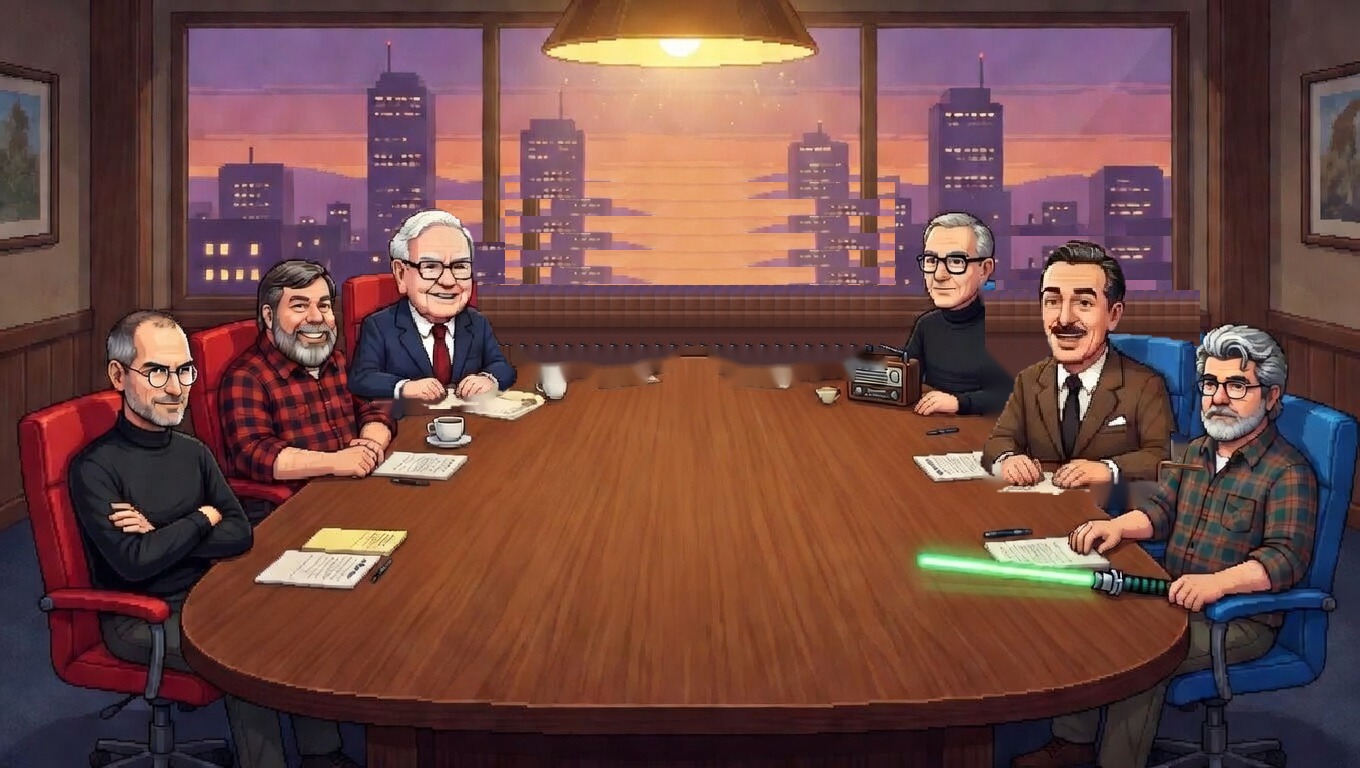
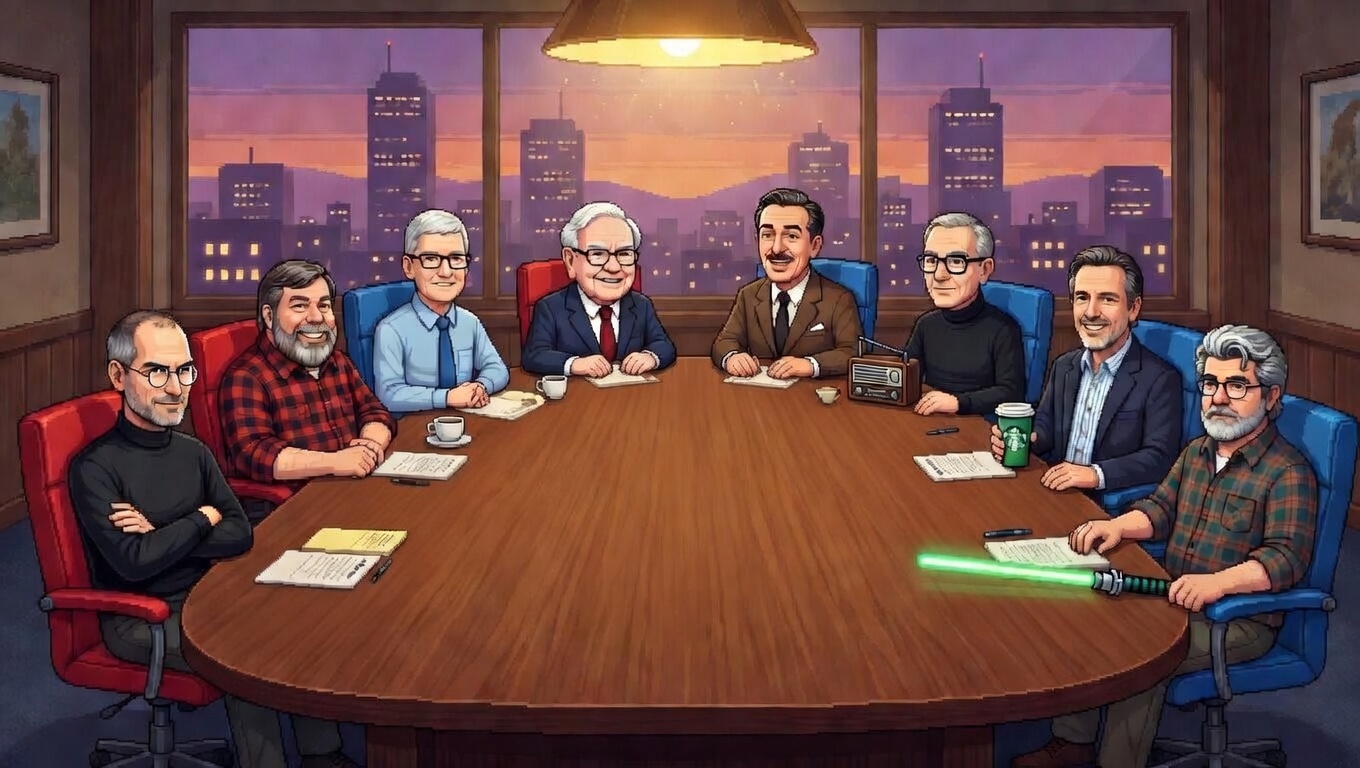
Revert "Merge pull request #292 from csilvasantin/sala-6-leyendas"
This reverts commit 92a349837a8a0c2c2da7ecb3124411809cab0435, reversing
changes made to 76c301cf142f9547d49869e9359cf0bf0e23a85d.

Changed region(s): [[0.2471, 0.2188, 0.6794, 0.5625], [0.7103, 0.2812, 0.8956, 0.6562]]

diff --git a/assets/council-silhouettes.js b/assets/council-silhouettes.js
@@ -1,4 +1,4 @@
 /* Siluetas de los consejeros, trazadas sobre el arte de la sala.
    Coordenadas en píxeles de la escena; el SVG usa el viewBox de la imagen
    y escala con ella en cualquier viewport. Generado con u2netp (rembg). */
-window.COUNCIL_SILHOUETTES = {"leyendas":{"width":1360,"height":768,"paths":{"Steve Jobs":"M167 314 L139 311 L121 319 L112 328 L106 341 L111 389 L32 412 L19 422 L23 488 L43 580 L40 608 L47 613 L48 621 L182 621 L183 607 L197 583 L213 565 L223 561 L223 470 L209 448 L191 432 L187 399 L196 369 L185 334 Z","Steve Wozniak":"M283 260 L270 268 L259 284 L258 335 L254 346 L248 350 L251 358 L256 358 L267 368 L272 386 L268 411 L273 429 L278 435 L288 427 L298 428 L301 423 L287 421 L282 417 L282 411 L317 404 L325 397 L323 384 L330 376 L338 377 L346 398 L345 434 L338 450 L319 450 L313 443 L291 442 L280 449 L273 463 L270 484 L285 486 L286 501 L282 507 L291 514 L298 529 L307 533 L308 540 L324 526 L361 529 L373 524 L373 497 L366 501 L360 499 L350 508 L340 505 L336 498 L317 494 L314 489 L322 482 L363 477 L373 472 L373 391 L363 382 L348 357 L334 347 L337 335 L332 309 L335 283 L327 270 L317 261 Z","Tim Cook":"M438 209 L421 212 L406 228 L401 267 L415 284 L410 300 L374 326 L374 475 L418 484 L431 479 L448 479 L467 459 L455 451 L457 446 L471 439 L464 430 L464 419 L448 415 L446 407 L479 408 L487 404 L490 394 L503 388 L509 379 L506 366 L477 317 L453 302 L471 284 L469 240 L461 221 Z","Warren Buffett":"M445 208 L411 212 L388 242 L389 267 L399 297 L361 318 L354 351 L348 358 L348 394 L362 403 L362 415 L377 430 L382 431 L392 425 L398 408 L404 404 L417 406 L430 414 L500 407 L500 399 L516 385 L515 365 L500 342 L489 316 L468 302 L478 264 L477 239 L459 217 Z","Walt Disney":"M1059 241 L1041 254 L1034 272 L1038 318 L1049 350 L1014 372 L999 413 L981 436 L978 461 L994 492 L1073 500 L1106 488 L1119 493 L1112 504 L1133 541 L1132 560 L1122 567 L1115 582 L1084 591 L1068 610 L1070 626 L1051 643 L1175 643 L1175 404 L1154 368 L1116 352 L1107 335 L1118 326 L1124 307 L1125 278 L1120 263 L1097 244 Z","Dieter Rams":"M942 211 L923 232 L923 251 L916 258 L935 306 L916 321 L903 349 L906 363 L909 359 L918 359 L922 366 L922 381 L930 389 L912 406 L912 411 L939 419 L939 426 L925 434 L937 439 L944 451 L939 455 L912 458 L934 481 L1012 477 L1018 490 L1013 506 L1019 506 L1019 321 L983 298 L981 288 L994 270 L994 241 L989 229 L964 211 Z","Howard Schultz":"M1107 245 L1078 251 L1069 266 L1068 289 L1073 323 L1083 344 L1054 361 L1036 410 L1030 438 L1039 461 L1033 466 L1020 467 L1020 537 L1155 537 L1155 353 L1142 345 L1133 333 L1142 302 L1140 270 L1131 256 Z","George Lucas":"M1214 328 L1196 349 L1196 382 L1205 432 L1189 442 L1156 486 L1156 563 L1171 578 L1168 601 L1185 621 L1181 637 L1185 652 L1181 659 L1187 659 L1187 653 L1193 647 L1199 653 L1198 659 L1224 659 L1224 636 L1227 622 L1233 616 L1232 599 L1258 594 L1264 598 L1263 609 L1244 616 L1275 626 L1282 622 L1284 614 L1297 612 L1300 622 L1298 647 L1304 659 L1325 659 L1328 614 L1336 607 L1332 594 L1320 588 L1306 588 L1301 584 L1313 549 L1316 478 L1310 463 L1279 433 L1275 424 L1283 409 L1284 355 L1268 334 L1256 328 L1230 324 Z"}},"coetaneos":{"width":1280,"height":720,"paths":{"Elon Musk":"M190 321 L164 321 L158 327 L139 333 L119 357 L124 380 L120 398 L127 414 L136 421 L137 439 L134 443 L95 462 L72 466 L69 471 L61 473 L56 469 L55 459 L47 470 L40 469 L38 447 L32 436 L48 584 L40 601 L50 612 L51 638 L58 660 L248 660 L248 511 L235 510 L218 465 L195 449 L207 426 L214 354 L205 333 Z","Jensen Huang":"M340 317 L314 315 L296 325 L289 337 L288 354 L283 364 L293 383 L288 399 L261 414 L249 426 L251 525 L264 522 L273 505 L295 496 L300 498 L303 506 L317 507 L319 516 L327 517 L335 512 L336 499 L354 487 L356 455 L349 425 L359 421 L351 399 L359 387 L364 356 L359 351 L355 331 Z","Gwynne Shotwell":"M453 284 L441 284 L421 293 L412 306 L408 328 L403 332 L404 447 L426 447 L440 453 L459 446 L451 440 L461 431 L464 414 L457 374 L483 363 L477 351 L488 332 L477 300 L465 288 Z","Ruth Porat":"M579 275 L566 275 L551 282 L542 292 L536 316 L531 320 L540 332 L548 331 L557 341 L555 348 L544 346 L541 355 L531 361 L531 482 L557 479 L557 449 L566 446 L630 447 L627 421 L599 420 L585 407 L594 387 L604 380 L603 328 L609 317 L599 288 Z","John Lasseter":"M747 279 L728 288 L718 314 L725 345 L739 367 L751 374 L754 366 L766 356 L783 327 L781 298 L777 291 L765 281 Z","Jony Ive":"M863 303 L851 314 L848 325 L848 363 L853 380 L835 398 L826 389 L817 390 L807 384 L800 387 L800 394 L807 397 L808 412 L825 410 L834 425 L834 432 L828 438 L851 460 L883 465 L884 480 L874 487 L875 493 L883 493 L892 485 L918 485 L925 481 L933 484 L933 402 L923 387 L896 369 L896 361 L907 347 L902 316 L889 304 Z","Carlos Ratti":"M991 305 L970 310 L953 335 L957 362 L963 370 L966 392 L975 411 L956 426 L944 452 L934 462 L934 498 L940 493 L955 492 L964 493 L967 499 L976 496 L979 509 L993 518 L1018 512 L1024 504 L1038 511 L1053 508 L1062 496 L1062 476 L1054 433 L1019 402 L1036 379 L1041 357 L1037 336 L1029 321 L1019 313 Z","Ryan Reynolds":"M1109 331 L1094 349 L1092 370 L1098 418 L1111 451 L1101 466 L1105 474 L1105 494 L1091 517 L1084 516 L1081 498 L1081 592 L1150 592 L1155 589 L1161 592 L1212 592 L1226 569 L1225 536 L1217 487 L1204 467 L1176 451 L1163 434 L1179 401 L1176 355 L1160 336 L1145 329 Z"}}};
+window.COUNCIL_SILHOUETTES = {"leyendas":{"width":1360,"height":768,"paths":{"Steve Jobs":"M167 314 L139 311 L121 319 L112 328 L106 341 L111 389 L32 412 L19 422 L23 488 L43 580 L40 608 L47 613 L48 621 L182 621 L183 607 L197 583 L213 565 L223 561 L223 470 L209 448 L191 432 L187 399 L196 369 L185 334 Z","Steve Wozniak":"M283 260 L270 268 L259 284 L258 335 L254 346 L248 350 L251 358 L256 358 L267 368 L272 386 L268 411 L273 429 L278 435 L288 427 L298 428 L301 423 L287 421 L282 417 L282 411 L317 404 L325 397 L323 384 L330 376 L338 377 L346 398 L345 434 L338 450 L319 450 L313 443 L291 442 L280 449 L273 463 L270 484 L285 486 L286 501 L282 507 L291 514 L298 529 L307 533 L308 540 L324 526 L361 529 L373 524 L373 497 L366 501 L360 499 L350 508 L340 505 L336 498 L317 494 L314 489 L322 482 L363 477 L373 472 L373 391 L363 382 L348 357 L334 347 L337 335 L332 309 L335 283 L327 270 L317 261 Z","Tim Cook":"M438 209 L421 212 L406 228 L401 267 L415 284 L410 300 L374 326 L374 475 L418 484 L431 479 L448 479 L467 459 L455 451 L457 446 L471 439 L464 430 L464 419 L448 415 L446 407 L479 408 L487 404 L490 394 L503 388 L509 379 L506 366 L477 317 L453 302 L471 284 L469 240 L461 221 Z","Warren Buffett":"M611 201 L580 205 L559 232 L560 255 L569 282 L535 301 L528 331 L523 337 L523 370 L536 378 L536 389 L549 403 L554 404 L563 398 L568 383 L574 379 L586 381 L597 388 L661 382 L661 375 L676 362 L675 344 L661 323 L651 299 L632 287 L641 252 L640 229 L624 209 Z","Walt Disney":"M773 189 L759 199 L754 213 L757 248 L765 273 L738 290 L727 321 L713 339 L711 358 L723 382 L784 388 L809 379 L819 383 L814 391 L830 420 L829 434 L821 440 L816 451 L792 458 L780 473 L781 485 L767 498 L862 498 L862 314 L846 287 L817 274 L810 261 L818 254 L823 240 L824 217 L820 206 L802 191 Z","Dieter Rams":"M942 211 L923 232 L923 251 L916 258 L935 306 L916 321 L903 349 L906 363 L909 359 L918 359 L922 366 L922 381 L930 389 L912 406 L912 411 L939 419 L939 426 L925 434 L937 439 L944 451 L939 455 L912 458 L934 481 L1012 477 L1018 490 L1013 506 L1019 506 L1019 321 L983 298 L981 288 L994 270 L994 241 L989 229 L964 211 Z","Howard Schultz":"M1107 245 L1078 251 L1069 266 L1068 289 L1073 323 L1083 344 L1054 361 L1036 410 L1030 438 L1039 461 L1033 466 L1020 467 L1020 537 L1155 537 L1155 353 L1142 345 L1133 333 L1142 302 L1140 270 L1131 256 Z","George Lucas":"M1214 328 L1196 349 L1196 382 L1205 432 L1189 442 L1156 486 L1156 563 L1171 578 L1168 601 L1185 621 L1181 637 L1185 652 L1181 659 L1187 659 L1187 653 L1193 647 L1199 653 L1198 659 L1224 659 L1224 636 L1227 622 L1233 616 L1232 599 L1258 594 L1264 598 L1263 609 L1244 616 L1275 626 L1282 622 L1284 614 L1297 612 L1300 622 L1298 647 L1304 659 L1325 659 L1328 614 L1336 607 L1332 594 L1320 588 L1306 588 L1301 584 L1313 549 L1316 478 L1310 463 L1279 433 L1275 424 L1283 409 L1284 355 L1268 334 L1256 328 L1230 324 Z"}},"coetaneos":{"width":1280,"height":720,"paths":{"Elon Musk":"M190 321 L164 321 L158 327 L139 333 L119 357 L124 380 L120 398 L127 414 L136 421 L137 439 L134 443 L95 462 L72 466 L69 471 L61 473 L56 469 L55 459 L47 470 L40 469 L38 447 L32 436 L48 584 L40 601 L50 612 L51 638 L58 660 L248 660 L248 511 L235 510 L218 465 L195 449 L207 426 L214 354 L205 333 Z","Jensen Huang":"M340 317 L314 315 L296 325 L289 337 L288 354 L283 364 L293 383 L288 399 L261 414 L249 426 L251 525 L264 522 L273 505 L295 496 L300 498 L303 506 L317 507 L319 516 L327 517 L335 512 L336 499 L354 487 L356 455 L349 425 L359 421 L351 399 L359 387 L364 356 L359 351 L355 331 Z","Gwynne Shotwell":"M453 284 L441 284 L421 293 L412 306 L408 328 L403 332 L404 447 L426 447 L440 453 L459 446 L451 440 L461 431 L464 414 L457 374 L483 363 L477 351 L488 332 L477 300 L465 288 Z","Ruth Porat":"M579 275 L566 275 L551 282 L542 292 L536 316 L531 320 L540 332 L548 331 L557 341 L555 348 L544 346 L541 355 L531 361 L531 482 L557 479 L557 449 L566 446 L630 447 L627 421 L599 420 L585 407 L594 387 L604 380 L603 328 L609 317 L599 288 Z","John Lasseter":"M747 279 L728 288 L718 314 L725 345 L739 367 L751 374 L754 366 L766 356 L783 327 L781 298 L777 291 L765 281 Z","Jony Ive":"M863 303 L851 314 L848 325 L848 363 L853 380 L835 398 L826 389 L817 390 L807 384 L800 387 L800 394 L807 397 L808 412 L825 410 L834 425 L834 432 L828 438 L851 460 L883 465 L884 480 L874 487 L875 493 L883 493 L892 485 L918 485 L925 481 L933 484 L933 402 L923 387 L896 369 L896 361 L907 347 L902 316 L889 304 Z","Carlos Ratti":"M991 305 L970 310 L953 335 L957 362 L963 370 L966 392 L975 411 L956 426 L944 452 L934 462 L934 498 L940 493 L955 492 L964 493 L967 499 L976 496 L979 509 L993 518 L1018 512 L1024 504 L1038 511 L1053 508 L1062 496 L1062 476 L1054 433 L1019 402 L1036 379 L1041 357 L1037 336 L1029 321 L1019 313 Z","Ryan Reynolds":"M1109 331 L1094 349 L1092 370 L1098 418 L1111 451 L1101 466 L1105 474 L1105 494 L1091 517 L1084 516 L1081 498 L1081 592 L1150 592 L1155 589 L1161 592 L1212 592 L1226 569 L1225 536 L1217 487 L1204 467 L1176 451 L1163 434 L1179 401 L1176 355 L1160 336 L1145 329 Z"}}};

diff --git a/app.flt-100529.js b/app.flt-100529.js
@@ -225,12 +225,12 @@
             // Racional (left/red) — posiciones sobre la cabeza de cada personaje
             { role: "CEO", persona: "Steve Jobs",      x: 10, y: 38, machineId: "admira-macbookair16",      body: { left: 7,  top: 44, width: 7,  height: 17 } },
             { role: "CTO", persona: "Steve Wozniak",   x: 20, y: 32, machineId: "admira-macbookpronegro14", body: { left: 18, top: 36, width: 8,  height: 21 } },
-            // Sala de 6 (Carlos, 24-10-2026): Tim Cook y Howard Schultz ya no se sientan en Leyendas;
-            // Buffett ocupa la silla de Cook y Disney la de Schultz. El fondo de la mesa queda vacío.
-            { role: "CFO", persona: "Warren Buffett",  x: 32, y: 25, machineId: "admira-macmini",           body: { left: 28, top: 28, width: 9,  height: 26 } },
+            { role: "COO", persona: "Tim Cook",        x: 33, y: 26, machineId: "admira-macbookairplata",   body: { left: 31, top: 30, width: 8,  height: 24 } },
+            { role: "CFO", persona: "Warren Buffett",  x: 45, y: 25, machineId: "admira-macmini",           body: { left: 43, top: 27, width: 8,  height: 26 } },
             // Creativo (right/blue)
+            { role: "CCO", persona: "Walt Disney",     x: 58, y: 23, machineId: "admira-macbookairluna",  body: { left: 55, top: 27, width: 8,  height: 26 } },
             { role: "CDO", persona: "Dieter Rams",     x: 72, y: 27, machineId: "admira-macbookairazul",    body: { left: 66, top: 31, width: 7,  height: 23 } },
-            { role: "CCO", persona: "Walt Disney",     x: 79, y: 29, machineId: "admira-macbookairluna",  body: { left: 74, top: 32, width: 11, height: 28 } },
+            { role: "CXO", persona: "Howard Schultz",  x: 82, y: 32, machineId: "admira-pctwin",            body: { left: 77, top: 34, width: 8,  height: 21 } },
             { role: "CSO", persona: "George Lucas",    x: 92, y: 38, machineId: "admira-macbookaircrema",   body: { left: 88, top: 41, width: 9,  height: 17 } },
         ],
         coetaneos: [
@@ -261,7 +261,7 @@
     let currentGen = "leyendas";
     let speakerTurnMap = {};
     let activeLegendPersona = "Steve Jobs";
-    const COUNCIL_IMAGE_VERSION = "20261024-sala6";
+    const COUNCIL_IMAGE_VERSION = "20260613-r2";
     const LEGEND_MANDATES = {
         "Steve Jobs": {
             short: "foco producto",
@@ -658,10 +658,7 @@
         if (sil && sil.paths) {
             const paths = plates.map(p => {
                 // /recorte: el contorno manual guardado manda sobre el automático.
-                // Sala de 6 (24-10-2026): Buffett y Disney cambiaron de silla; su contorno manual de /recorte
-                // era de la silla antigua, así que manda la silueta automática ya trasladada.
-                const movido = currentGen === "leyendas" && (p.persona === "Walt Disney" || p.persona === "Warren Buffett");
-                const d = (!movido && window.CouncilRecorte && window.CouncilRecorte.pathFor(currentGen, p.persona, sil.width, sil.height)) || sil.paths[p.persona];
+                const d = (window.CouncilRecorte && window.CouncilRecorte.pathFor(currentGen, p.persona, sil.width, sil.height)) || sil.paths[p.persona];
                 if (!d) return '';
                 const title = `Ver ficha de ${p.persona} (${p.role})`;
                 return `<path class="body-hotspot" data-persona="${p.persona}" data-role="${p.role}" d="${d}"><title>${title}</title></path>`;

diff --git a/index.html b/index.html
@@ -3739,7 +3739,7 @@ body.rail-open{overflow:hidden}
 
         <div class="stage-row">
         <div class="council-image" data-generation="leyendas">
-            <img id="council-img" src="assets/council-leyendas.jpg?v=20261024-sala6" alt="Consejo AdmiraNext" onload="this.closest('.council-image')&&this.closest('.council-image').classList.add('loaded')">
+            <img id="council-img" src="assets/council-leyendas.jpg?v=20260613-r2" alt="Consejo AdmiraNext" onload="this.closest('.council-image')&&this.closest('.council-image').classList.add('loaded')">
             <nav class="council-generation" aria-label="Generación del Consejo">
                 <button type="button" data-council-generation="leyendas" aria-label="Cuadro: cambiar de consejo (Leyendas ↔ Coetáneos)" aria-pressed="true" title="Cambiar de consejo · Leyendas ↔ Coetáneos" data-en-aria-label="Frame: switch council (Legends ↔ Contemporaries)" data-en-title="Switch council · Legends ↔ Contemporaries"><span data-en="★ Legends">★ Leyendas</span></button>
                 <button type="button" data-council-generation="coetaneos" aria-label="Cuadro: cambiar de consejo (Leyendas ↔ Coetáneos)" aria-pressed="false" title="Cambiar de consejo · Leyendas ↔ Coetáneos" data-en-aria-label="Frame: switch council (Legends ↔ Contemporaries)" data-en-title="Switch council · Legends ↔ Contemporaries"><span data-en="🚀 Contemporaries">🚀 Coetáneos</span></button>
@@ -4581,7 +4581,7 @@ body.rail-open{overflow:hidden}
 <script defer src="council-grokbot.js?v=20261024-r99-ancha"></script>
 <script defer src="council-todo.js?v=20260930-flt101302"></script>
 <script defer src="council-estado.js?v=20261004-5113-anterior"></script>
-<script defer src="assets/council-silhouettes.js?v=20261024-sala6"></script>
+<script defer src="assets/council-silhouettes.js?v=20261004-silueta"></script>
 <script defer src="assets/council-recorte.js?v=20261004-recorte1"></script>
 <script defer src="/assets/cli-bilingue.js?v=20261006-r19-bilingue"></script>
 <script defer src="/assets/interface-cli.js?v=20261011-5707-selector2"></script>
@@ -4589,7 +4589,7 @@ body.rail-open{overflow:hidden}
 <script defer src="/assets/cli-ayuda.js?v=20261011-5707-selector"></script>
 <link rel="stylesheet" href="/assets/webcam.css?v=20261014-5863">
 <script defer src="/assets/webcam.js?v=20261014-5863"></script>
-<script defer src="app.flt-100529.js?v=20261024-sala6"></script>
+<script defer src="app.flt-100529.js?v=20261024-previos2"></script>
 <script defer src="council-preview.js?v=20260921-ultra1"></script>
 <script defer src="council-composer.js?v=20261009-r9-paste"></script>
 <script defer src="council-working.js?v=20260930-flt101302"></script>

diff --git a/council-speech.js b/council-speech.js
@@ -23,8 +23,8 @@
             'Steve Jobs':     Object.freeze({ x: 168,  y: 402, width: 27, height: 11, opening: 1.7 }),
             'Steve Wozniak':  Object.freeze({ x: 310,  y: 335, width: 32, height: 14, opening: 1.9 }),
             'Tim Cook':       Object.freeze({ x: 444,  y: 283, width: 23, height: 9,  opening: 1.4 }),
-            'Warren Buffett': Object.freeze({ x: 443,  y: 295, width: 30, height: 12, opening: 1.6 }),
-            'Walt Disney':    Object.freeze({ x: 1068, y: 339, width: 32, height: 14, opening: 1.7 }),
+            'Warren Buffett': Object.freeze({ x: 609,  y: 280, width: 27, height: 11, opening: 1.6 }),
+            'Walt Disney':    Object.freeze({ x: 780,  y: 264, width: 25, height: 13, opening: 1.7 }),
             'Dieter Rams':    Object.freeze({ x: 946,  y: 290, width: 22, height: 9,  opening: 1.3 }),
             'Howard Schultz': Object.freeze({ x: 1094, y: 329, width: 28, height: 12, opening: 1.7 }),
             'George Lucas':   Object.freeze({ x: 1223, y: 416, width: 25, height: 11, opening: 1.5 })
